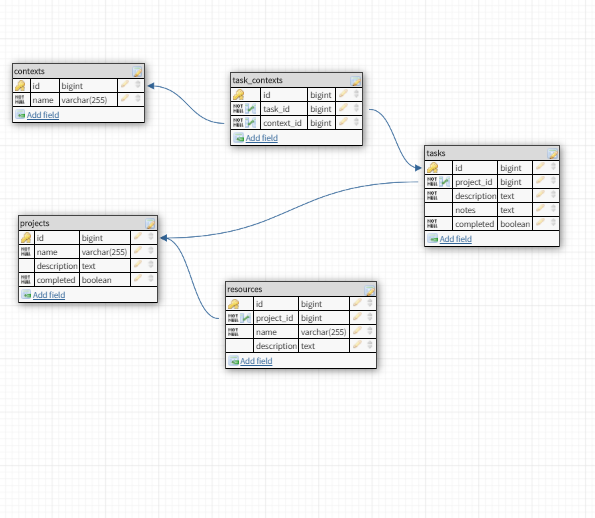
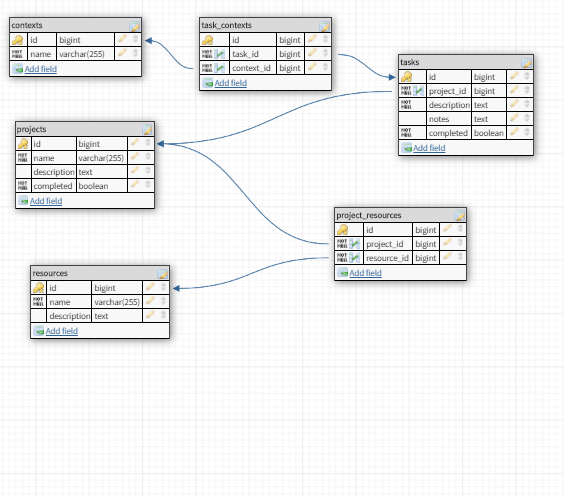
added m2m projects/resources and changed model

diff --git a/data/migrations/20200515104408_init.js b/data/migrations/20200515104408_init.js
@@ -8,6 +8,12 @@ exports.up = function(knex) {
     table.string('description');
     table.boolean('completed').notNullable().defaultTo(false);
   })
+  .createTable('resources', table => {
+    table.increments('id');
+
+    table.string('name', 255).notNullable();
+    table.string('description');
+  })
   .createTable('tasks', table => {
     table.increments('id');
 
@@ -15,24 +21,26 @@ exports.up = function(knex) {
     table.string('notes');
     table.boolean('completed').notNullable().defaultTo(false);
 
+    // 1-* with projects
     table.integer('project_id').unsigned().notNullable()
       .references('id').inTable('projects').onDelete('CASCADE').onUpdate('CASCADE');
   })
-  .createTable('resources', table => {
+  .createTable('project_resources', table => {
     table.increments('id');
 
-    table.string('name', 255).notNullable();
-    table.string('description');
-
+    // *-*
     table.integer('project_id').unsigned().notNullable()
       .references('id').inTable('projects').onDelete('CASCADE').onUpdate('CASCADE');
+    table.integer('resource_id').unsigned().notNullable()
+      .references('id').inTable('resources').onDelete('CASCADE').onUpdate('CASCADE');
   })
 };
 
 exports.down = function(knex) {
 
   return knex.schema
-    .dropIfTableExists('resources')
+    .dropIfTableExists('project_resources')
     .dropIfTableExists('tasks')
+    .dropIfTableExists('resources')
     .dropIfTableExists('projects')
 };
